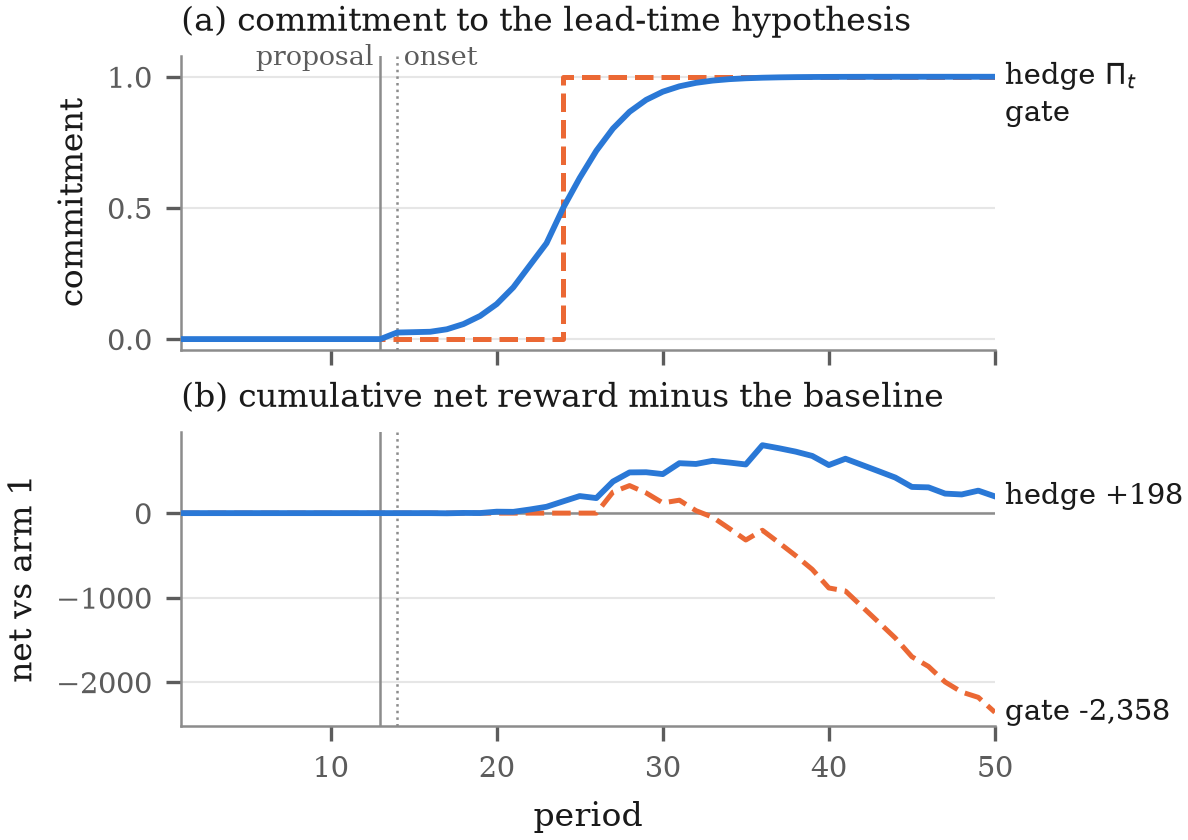
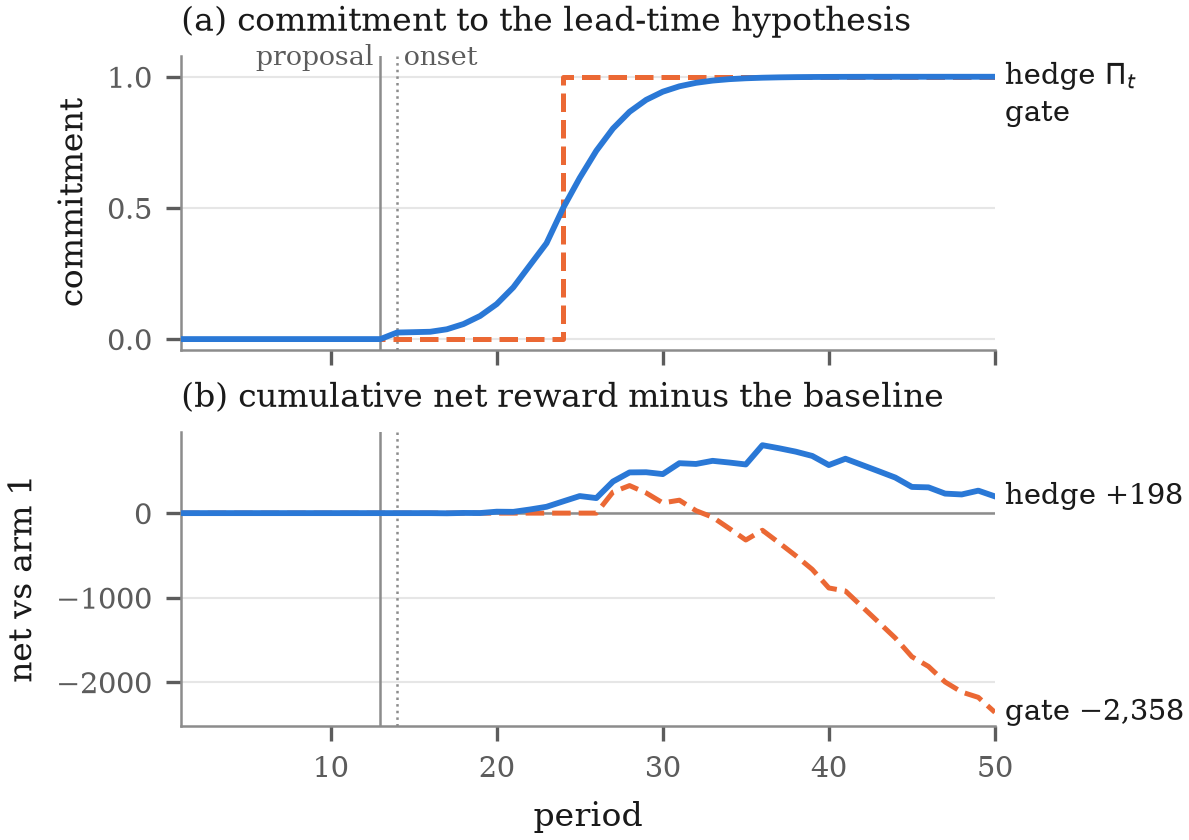
paper: typographic fixes (true minus signs in Fig. 1, a stray space in Section II)

diff --git a/paper/illustrate/cth_figures.py b/paper/illustrate/cth_figures.py
@@ -26,7 +26,7 @@ from pathlib import Path
 import matplotlib
 
 matplotlib.use("Agg")
-import matplotlib.pyplot as plt  # noqa: E402
+import matplotlib.pyplot as plt
 
 SCRIPT_DIR = Path(__file__).resolve().parent
 FIGURES_DIR = SCRIPT_DIR.parent / "figures"
@@ -78,6 +78,11 @@ def _style() -> None:
             "pdf.fonttype": 42,
         }
     )
+
+
+def _signed(value: float) -> str:
+    """A signed, comma-grouped integer with a true minus sign."""
+    return f"{value:+,.0f}".replace("-", "\u2212")
 
 
 def _save(fig, name: str) -> None:
@@ -182,16 +187,23 @@ def fig1_episode() -> None:
     ax_a.text(t[-1] + 0.6, mass[-1], "hedge $\\Pi_t$", color=INK, va="center", fontsize=7)
     ax_a.text(t[-1] + 0.6, gate[-1] - 0.14, "gate", color=INK, va="center", fontsize=7)
     ax_a.text(onset + 0.4, 1.02, "onset", color=MUTED, fontsize=6.5, va="bottom")
-    ax_a.text(proposal[0] - 0.4, 1.02, "proposal", color=MUTED, fontsize=6.5, va="bottom",
-              ha="right")
+    ax_a.text(
+        proposal[0] - 0.4, 1.02, "proposal", color=MUTED, fontsize=6.5, va="bottom", ha="right"
+    )
     ax_a.set_title("(a) commitment to the lead-time hypothesis", loc="left", color=INK)
 
     ax_b.axhline(0, color=RULE, lw=0.6)
     ax_b.plot(t, gate_net, color=CONTROL, lw=1.2, ls="--", zorder=3)
     ax_b.plot(t, cth, color=EVIDENCE, lw=1.4, zorder=4)
-    ax_b.text(t[-1] + 0.6, cth[-1], f"hedge {cth[-1]:+,.0f}", color=INK, va="center", fontsize=7)
-    ax_b.text(t[-1] + 0.6, gate_net[-1], f"gate {gate_net[-1]:+,.0f}", color=INK, va="center",
-              fontsize=7)
+    ax_b.text(t[-1] + 0.6, cth[-1], f"hedge {_signed(cth[-1])}", color=INK, va="center", fontsize=7)
+    ax_b.text(
+        t[-1] + 0.6,
+        gate_net[-1],
+        f"gate {_signed(gate_net[-1])}",
+        color=INK,
+        va="center",
+        fontsize=7,
+    )
     ax_b.set_ylabel("net vs arm 1")
     ax_b.set_xlabel("period")
     ax_b.set_title("(b) cumulative net reward minus the baseline", loc="left", color=INK)
@@ -293,8 +305,16 @@ def fig2_models() -> None:
     ax_c.axvline(0, color=RULE, lw=0.6)
     ax_c.set_xlabel("net vs arm 1, per episode")
     ax_c.set_title("(c) verified commitment", loc="left", pad=20)
-    ax_c.legend(loc="lower left", bbox_to_anchor=(0.0, 1.0), ncol=2, frameon=False, fontsize=6.5,
-                handletextpad=0.3, columnspacing=1.2, borderaxespad=0.0)
+    ax_c.legend(
+        loc="lower left",
+        bbox_to_anchor=(0.0, 1.0),
+        ncol=2,
+        frameon=False,
+        fontsize=6.5,
+        handletextpad=0.3,
+        columnspacing=1.2,
+        borderaxespad=0.0,
+    )
     _save(fig, "fig2_models")
 
 

diff --git a/paper/sections/02_background.tex b/paper/sections/02_background.tex
@@ -8,7 +8,7 @@ in-transit stock is a single scalar with no shipment ages. Every cell is an inte
 reimplementation is checked for exact equality rather than a tolerance: it matches the official
 pipeline with a maximum absolute difference of $0.0$ over 648 comparisons, and our arm~1
 reproduces all 1{,}320 published baseline order sequences bit for bit. That reproduction
-exposed a \emph{harness divergence}~\label{sec:divergence}: the benchmark's legacy simulator keeps
+exposed a \emph{harness divergence}\label{sec:divergence}: the benchmark's legacy simulator keeps
 a lost shipment in in-transit stock forever, while its submission path never adds it. The
 published baseline score of $0.4447$ belongs to the legacy simulator; under the authoritative
 submission path the same policy scores $0.5208$, and the difference is exactly the 440
